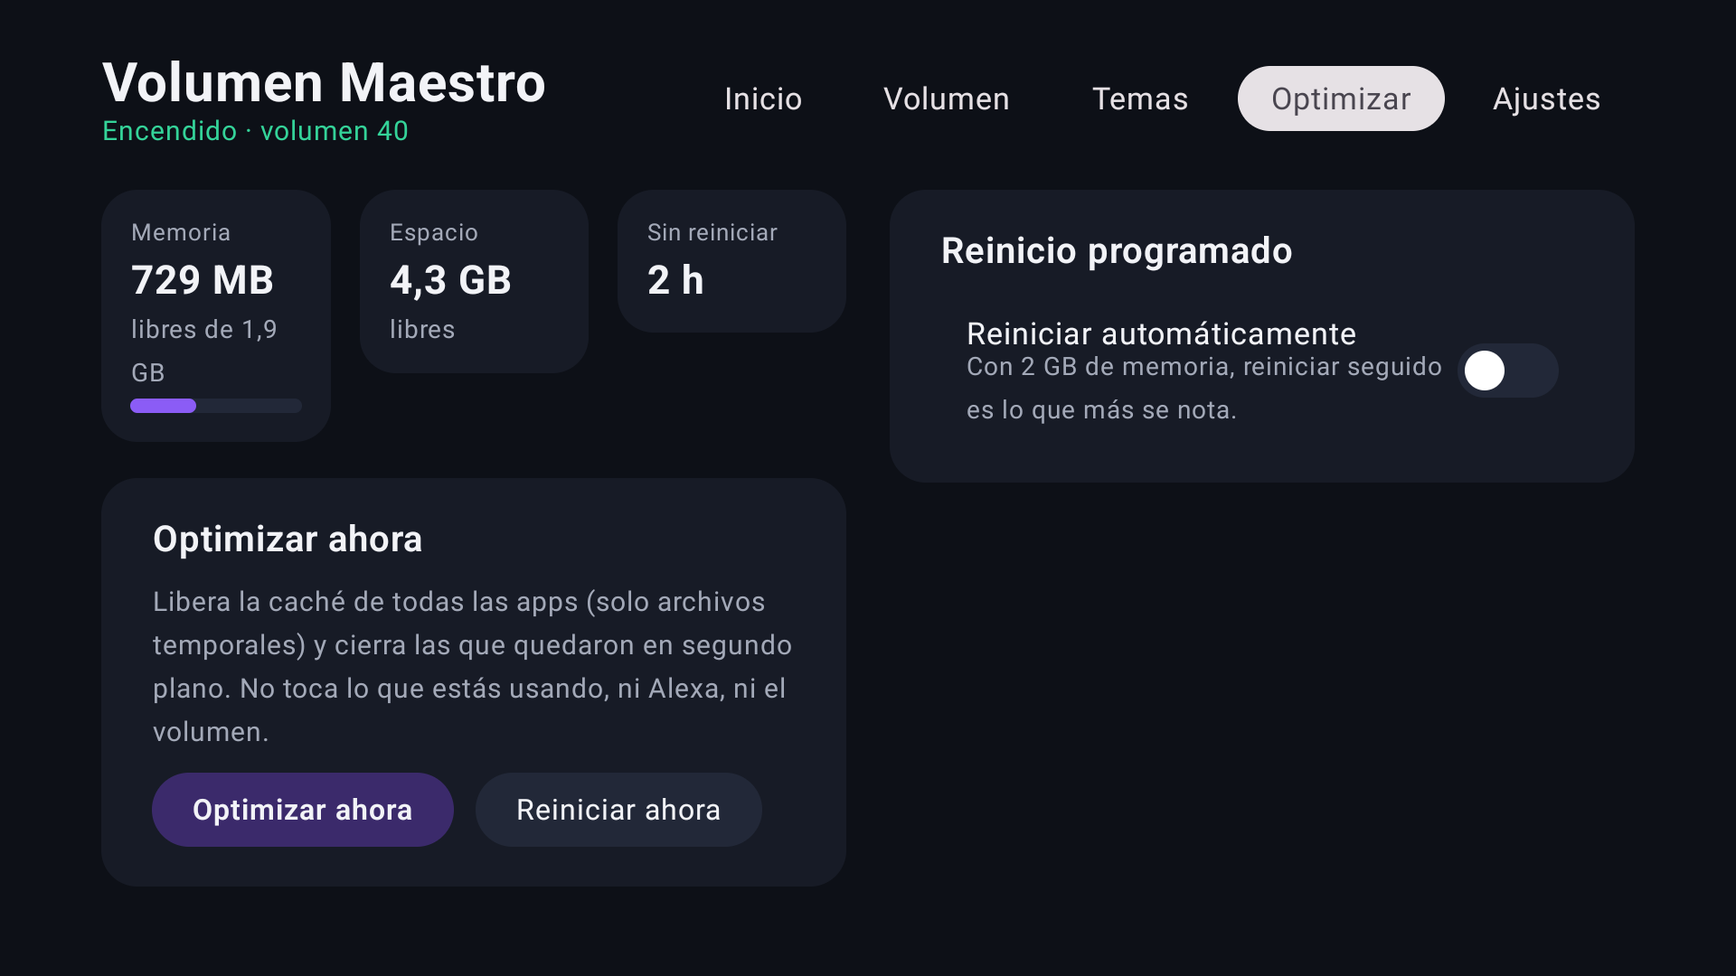
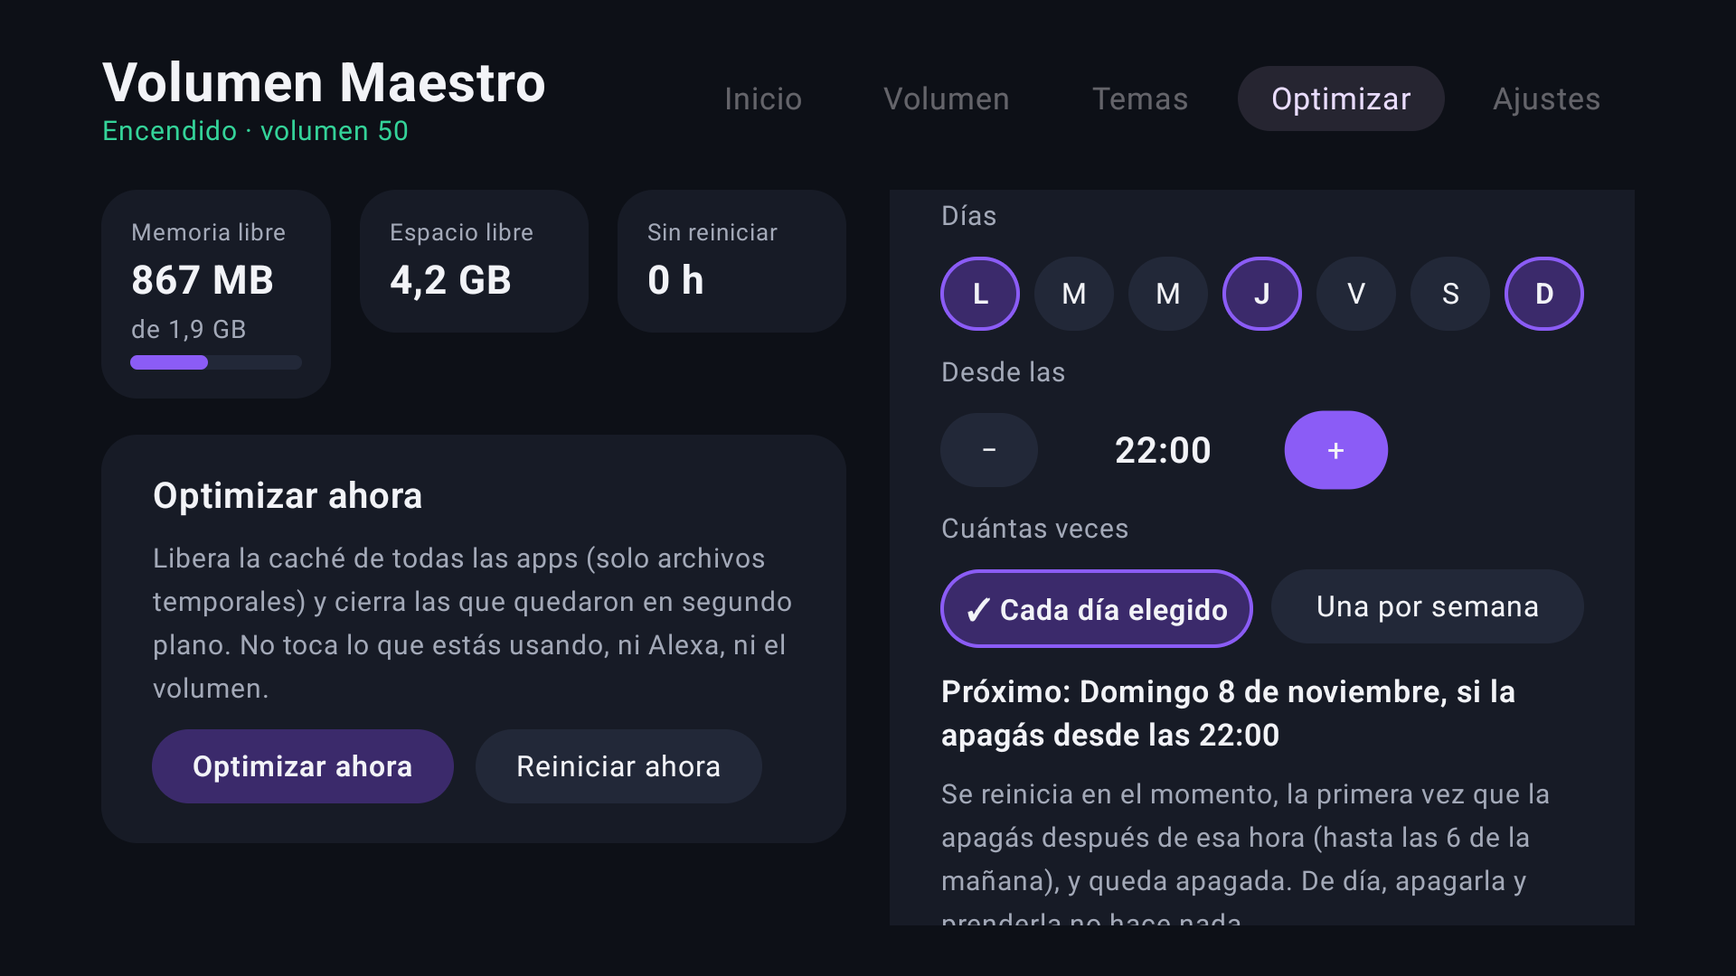
docs: cierre de sesión 2026-11-05 — la tira LED, Doze y Volumen Maestro 2.4

diff --git a/docs/index.html b/docs/index.html
@@ -95,7 +95,7 @@
       <div class="card"><div class="icon">🧠</div><h3>Como un Chromecast</h3><p>El equipo queda fijo en un volumen alto y la TV baja su propia señal, justo antes de la salida.</p></div>
       <div class="card"><div class="icon">⚔</div><h3>15 temas animados</h3><p>Los carteles de la TV quedan tapados por los tuyos: sable láser, neón, medieval, arcade, steampunk, Noche de brujas y más.</p></div>
       <div class="card"><div class="icon">🔀</div><h3>Alt-Tab en la TV</h3><p>El botón TCL Home abre las apps abiertas con vista previa; dos toques vuelven a la anterior.</p></div>
-      <div class="card"><div class="icon">🧹</div><h3>TV más liviana</h3><p>Optimizar con un botón y reinicio programado por días y hora.</p></div>
+      <div class="card"><div class="icon">🧹</div><h3>TV más liviana</h3><p>Optimizar con un botón y reinicio al apagar de noche, en los días que elijas.</p></div>
     </div>
   </div>
 </section>
@@ -134,7 +134,7 @@
       <figure><img src="assets/app-inicio.png" alt="Pestaña Inicio"><figcaption>Inicio: interruptor y estado</figcaption></figure>
       <figure><img src="assets/app-volumen.png" alt="Pestaña Volumen"><figcaption>Volumen: la curva</figcaption></figure>
       <figure><img src="assets/app-temas.png" alt="Pestaña Temas"><figcaption>Temas: elegir y probar</figcaption></figure>
-      <figure><img src="assets/app-optimizar.png" alt="Pestaña Optimizar"><figcaption>Optimizar y reinicio programado</figcaption></figure>
+      <figure><img src="assets/app-optimizar.png" alt="Pestaña Optimizar"><figcaption>Optimizar y reinicio al apagar</figcaption></figure>
     </div>
   </div>
 </section>

diff --git a/docs/SESSION_HANDOFF.md b/docs/SESSION_HANDOFF.md
@@ -2,18 +2,16 @@
 
 > Save game del proyecto. `/cierre` lo SOBREESCRIBE ENTERO en cada sesión — acá nunca se apila historia (eso vive en CHANGELOG). El hook SessionStart lo inyecta en cada chat nuevo: **tope de 5.500 bytes** (unas 70 líneas); si se pasa, el hook lo corta y avisa "CORTADO".
 
-**Cierre**: 2026-11-01 (noche) · **Último commit**: ver `git log -1` (cierre de sesión)
+**Cierre**: 2026-11-05 (tarde) · **Último commit**: ver `git log -1` (cierre de sesión)
 
-## Qué se hizo (sesión del 01/11 a la noche: CleanYourTV)
-- Se investigó **CleanYourTV** (`github.com/Gathin23/cleanyourtv`, el proyecto de moda para limpiar TVs Android). Tiene una lista para este mismo modelo (G09, firmware AS24).
-- Se cruzaron **todas sus listas de TCL** contra lo prendido en la TV: la mayoría de la del G09 ya estaba quitada. **Se quitaron las 5 que faltaban** (TIAS, instalador silencioso de TCL, instalaciones de socios, términos de TCL, actualizador de barras de sonido), con `pm uninstall -k --user 0`, de a una.
-- Verificado después: motor, Alexa, Wi-Fi con internet, Ajustes y el inicio andando, sin errores en el registro. **No se reinició la TV.**
-- Lo demás de sus listas son cosas elegidas por Guido o "nunca tocar". Ideas y datos que sirven, anotados en `docs/ideas-google-tv.md` (línea de CleanYourTV).
-- Guido aclaró: **nada de protectores ni pantallas nuevas en este repo** (eso es Museum Slideshow, con otro dev) y lo que se decidió no apagar no se apaga.
-- Bitácora: `docs/tv-guido-tcl/sesiones/2026-11-01.md` (punto 13).
+## Qué se hizo (sesión del 05/11: la tira LED y el reinicio al apagar)
+- La tira LED del USB titilaba con la TV apagada. Causa medida: en Network Standby el Wi-Fi despierta a la TV con el tráfico de la red. **La TV pasó a Doze**: la tira queda apagada, pero Alexa ya no prende la TV (ADR-015).
+- **Volumen Maestro 2.4 publicada e instalada**: reinicio al apagar de noche en vez de alarma a hora fija (ADR-016, spec COMPLETO). Arreglos en las pestañas Optimizar e Inicio.
+- Se descartó la espera de 1 minuto: TCL duerme la TV a ~1,3 s de apretar el botón. Reinicia en el momento.
+- Bitácora con las pruebas: `docs/tv-guido-tcl/sesiones/2026-11-05.md`.
 
 ## Estado
-- TV: Volumen Maestro 2.3 ENCENDIDA (tema Colina espiral, transición apagada, panel de apps prendido). Protector = Ambient de Google. 32 apps de fábrica quitadas (`apps-quitadas.txt`).
+- TV: Volumen Maestro 2.4 ENCENDIDA (tema Colina espiral). Reposo = Doze. Reinicio al apagar prendido: domingo, lunes y jueves desde las 22:00. La noche del jueves 05/11 quedó marcada por la prueba: el próximo es el domingo 08/11.
 - Red: TV en el Wi-Fi "Yulius" (`192.168.0.219`); la PC a veces queda en "Domotics3" (ver `CLAUDE.md`).
 - Repo limpio, todo subido.
 
@@ -21,7 +19,7 @@
 - Nada a medias.
 
 ## Próximo paso CONCRETO
-La próxima vez que la TV se reinicie (o reiniciarla al empezar la sesión): confirmar que arranca bien sin las 5 apps nuevas (motor con `pidof local.volumenmaestro:motor`, Alexa, Wi-Fi). Después: que Guido pruebe los temas de Noche de brujas en pantalla y mirar si la fila de Prime se fue (ver `docs/TODO.md`).
+El lunes 09/11 o después: confirmar el reinicio al apagar en Doze (primer punto de `docs/TODO.md`), que es lo único sin probar. Después: Guido prueba los temas de Noche de brujas en pantalla.
 
 ## Bloqueos
 - Ninguno.
@@ -29,8 +27,9 @@ La próxima vez que la TV se reinicie (o reiniciarla al empezar la sesión): con
 ## Contexto que no está en otro doc
 - Bajar el volumen maestro por debajo de 0,5 con la app apagada (sin el ecualizador) deja la TV muda y puede tumbar el HAL de audio. Para probar el volumen, bajar por debajo de 0,5 (con el redondeo, 0,94 suena igual que 1,0).
 - El panel de apps solo se abre con el control real (la shell no puede simular TCL Home): pedirle a Guido que lo deje abierto y `screencap`.
-- Navegar menús de la TV desde la PC anduvo bien leyendo el foco con `uiautomator dump`: bajar, leer qué tiene el foco, recién ahí OK.
+- **En Doze, apagar la TV desde la PC la deja inalcanzable hasta que Guido la prenda con el control.** Antes de apagarla, dejar todo como tiene que quedar.
 - Las capturas de la pantalla de inicio muestran la foto de perfil de Guido: borrarlas al terminar.
+- Quedan en la TV `/sdcard/s0.png`–`s3.png` y `th.png`, que no son de esta sesión (¿de Museum Slideshow?). No se tocaron.
 - `am start` de Ajustes no se abre mientras corre el Ambient: primero `input keyevent HOME`.
 - La TV tiene un segundo perfil (usuario 10, "new_user") sin usar; no gasta nada mientras no se abra. No se tocó.
 - Guido: la auto-actualización desde GitHub quedó descartada por ahora; los avisos desde el celu, descartados.

diff --git a/docs/decisiones.md b/docs/decisiones.md
@@ -18,6 +18,8 @@ Cada decisión con alternativas: qué se eligió, qué se descartó y por qué. 
 | 012 | La clave de firma va en el repo público | 31/10/2026 |
 | 013 | Un ecualizador plano en la mezcla se hace cargo del volumen maestro | 01/11/2026 |
 | 014 | El panel de apps abiertas va adentro de Volumen Maestro, en su propio paquete | 01/11/2026 |
+| 015 | Reposo de la TV en Doze: la tira LED del USB queda apagada; Alexa ya no prende la TV | 05/11/2026 |
+| 016 | Reinicio al apagar de noche, en el momento, en vez de alarma a hora fija (reemplaza a la 009) | 05/11/2026 |
 
 ## ADR-001 — Volumen maestro en vez de efectos de audio
 - **Contexto**: la salida óptica es de volumen fijo; hacía falta una capa de volumen por software.
@@ -57,7 +59,7 @@ Cada decisión con alternativas: qué se eligió, qué se descartó y por qué. 
 ## ADR-008 — Actualizar siempre encima
 - **Elegido**: misma clave (`keystore.jks`, alias `vm`), mismo `applicationId` (`local.volumenmaestro`) y el servicio con el mismo nombre de clase que la v1 (`local.volumenmaestro.VolumeService`). Así la app se actualiza sin perder la clave ADB autorizada, los ajustes ni la habilitación del servicio.
 
-## ADR-009 — Reinicio programado
+## ADR-009 — Reinicio programado (reemplazada por la ADR-016)
 - **Elegido**: alarma exacta (`setExactAndAllowWhileIdle`; el permiso se concede con `appops` por ADB). Solo reinicia con la pantalla apagada (espera hasta 3 h). Reinicia con el servicio `reboot:` de adbd (como `adb reboot`) y deja una marca: si al arrancar la pantalla se prendió sola, manda `KEYCODE_SLEEP`.
 - **Requisito**: reposo en Network Standby (en Hibernated la TV no despierta para la alarma).
 
@@ -88,3 +90,16 @@ Cada decisión con alternativas: qué se eligió, qué se descartó y por qué. 
 - **Opciones**: adentro de Volumen Maestro · una app aparte en este repo · un repo aparte.
 - **Elegido**: adentro, en su propio paquete (`local.volumenmaestro.recientes`) y su propio documento, separado del audio. Reusa el lector del control, la shell ADB y el arranque con la TV.
 - **Costo**: la app deja de ser solo de audio. Separarla después pide otra autorización ADB y duplicar el lector del control. Spec: `docs/specs/2026-11-01-panel-apps.md`.
+
+## ADR-015 — Reposo de la TV en Doze
+- **Contexto**: la tira LED que Guido tiene en el USB de la TV prendía y apagaba con la TV apagada. En Network Standby la placa de Wi-Fi despierta a la TV con el tráfico de la red: 36 despertadas en 10 minutos (registro: `TclPowerManagerServiceEx ... type = WOW`), y cada una prende el USB. Las alarmas de las apps no la despiertan (TCL las pasa a "no despertar").
+- **Opciones**: Network Standby (Alexa prende la TV, la tira titila) · Doze (la tira queda apagada; ni Alexa ni un paquete mágico desde la PC la prenden: probado el 05/11) · Hibernated (igual que Doze, sin mantenimiento) · enchufe inteligente para la tira o cable de red (fuera de la TV; el cable no se probó).
+- **Elegido**: Doze, por Guido. Cortar el USB o elegir qué despierta al Wi-Fi no se puede sin root (sysfs y Wi-Fi bloqueados para la shell).
+- **Costo**: Alexa apaga la TV pero no la prende, y el Chromecast tampoco la prende. La alarma del reinicio programado no despertaba a la TV: de ahí la ADR-016.
+
+## ADR-016 — Reinicio al apagar de noche, en el momento
+- **Contexto**: en reposo sin red nada despierta a la TV, así que una alarma a hora fija no sirve. Guido apaga y prende la TV seguido durante el día y quiere sus apps abiertas.
+- **Opciones**: alarma a hora fija · que la app pregunte una vez por semana · reiniciar cada vez que se apaga · reiniciar la primera vez que se apaga de noche, en los días elegidos.
+- **Elegido**: la última. Por defecto domingo, lunes y jueves desde las 22:00; la noche sigue hasta las 06:00. Una vez por noche, o "una por semana" como opción.
+- **Sin espera**: se planeó esperar 1 minuto por si se apagó sin querer, pero no se puede. TCL suelta los wakelocks de las apps y duerme la TV a ~1,3 s de apretar el botón (`aosp release wakelock` + `powerSuspend`, igual con y sin red), así que la espera nunca corría. El reinicio se manda en el momento. Si no llegara, al despertar la pantalla está prendida y no reinicia: la noche queda sin marcar.
+- **Costo**: apagarla sin querer de noche la reinicia (vuelve en ~30 s). La pantalla se prende durante el arranque, hasta que la app la apaga a los ~15 s de arrancar el motor.

diff --git a/docs/tv-guido-tcl/sesiones/2026-11-05.md b/docs/tv-guido-tcl/sesiones/2026-11-05.md
@@ -1,0 +1,17 @@
+# Sesión 05/11/2026 — la tira LED del USB
+
+1. **Arranque**: la TV había arrancado de cero esa mañana (botón del control). Motor, Alexa y Wi-Fi andaban sin las 5 apps de TCL quitadas el 01/11.
+2. **Pedido**: la tira LED enchufada al USB de la TV prendía y apagaba con la TV apagada. Guido quería que el USB quedara cortado.
+3. **Cortar el USB directo**: no se puede. La shell no tiene permiso sobre el USB (sysfs bloqueado) y la tira solo toma corriente.
+4. **Medición en Network Standby** (TV apagada 15:13–15:24): 36 despertadas, todas por la red (`type = WOW`). Cada una duraba 4–10 s, cada 3–42 s, igual que lo que Guido veía en la tira. Las alarmas de las apps la despertaron solo 3 veces (al apagarla).
+5. **Prueba en Doze** (desde las 15:32, cambiado por el menú con `uiautomator`): la tira quedó apagada. Ni un paquete mágico desde la PC (15:35) ni Alexa con la voz prendieron la TV. El único ajuste que cambió: `tcl_sys_network_standby_enabled` de 1 a 0.
+6. **Decisión de Guido**: queda en Doze (ADR-015). Volumen Maestro siguió andando al despertar de Doze sin reiniciarse (mismo proceso del motor).
+7. **Volumen Maestro 2.4, reinicio al apagar** (ADR-016). Primer intento con 1 minuto de espera: no reinició, porque TCL duerme la TV a ~1,3 s de apretar el botón (registro de las 16:48). Se pasó a reiniciar en el momento.
+8. **Pruebas sin Guido**, con reposo con red puesto un rato con `settings put` para no perder ADB:
+   - Apagar antes de la hora: no reinició (18:18, tiempo encendida 9:45 → 9:47).
+   - Apagar de noche: reinició (apagada 18:20:18, de vuelta 18:20:50, dormida otra vez 18:21:08 con `KEYCODE_SLEEP`).
+   - Apagar otra vez esa noche: no reinició (1 → 2 min encendida).
+   - Volumen y cartel sobre el inicio: suben y bajan bien.
+   - **No probado**: el reinicio completo en Doze (esa noche ya quedó marcada por la prueba). Doze y con red tardan lo mismo en dormirse.
+9. **Fila de Prime Video del inicio**: el 05/11 sigue ahí, 4 días después de apagar Prime en "Apps y servicios". Con eso se cierra: no hay más vueltas sin perder "Continue watching".
+10. **Al terminar**: reposo en Doze (`tcl_sys_network_standby_enabled=0`), reinicio domingo, lunes y jueves desde las 22:00, TV en el inicio.

diff --git a/docs/TODO.md b/docs/TODO.md
@@ -2,19 +2,18 @@
 
 > ÚNICA fuente de pendientes del proyecto. Completado → SE BORRA (la historia vive en CHANGELOG y git). Header de 1 línea, sin narrativa de sesión.
 
-2026-11-01 — ver SESSION_HANDOFF.md
+2026-11-05 — ver SESSION_HANDOFF.md
 
 ## 🔴 Crítico
 - (nada)
 
 ## 🟠 Importante
-- [ ] Tras el próximo reinicio de la TV, confirmar que arranca bien sin las 5 apps de TCL quitadas el 01/11 (motor, Alexa, Wi-Fi).
+- [ ] Confirmar el reinicio al apagar en Doze: la prueba completa se hizo con reposo con red (Doze mostró el mismo tiempo antes de dormirse). El lunes 09/11 a la mañana, si Guido apagó la TV el domingo después de las 22:00, "Sin reiniciar" en Optimizar tiene que marcar solo las horas desde esa noche, y Guido cuenta si la pantalla quedó apagada.
 - [ ] Guido: probar los 3 temas de Noche de brujas en pantalla de verdad ("Probar en pantalla"), con silencio incluido; que no se asome el cartel de TCL.
 - [ ] Ideas que quedan de `docs/ideas-google-tv.md` (opcionales): SmartTube desde su GitHub oficial, Wholphin, LocalSend, temporizador para dormir en la app, probar el ajuste de dibujo `skiavk` (dato de CleanYourTV).
-- [ ] Probar un reinicio programado real (ponerlo 2-3 minutos adelante y apagar la TV con el control); confirmar que la pantalla no queda prendida después.
 
 ## 🟡 Cuando se pueda
-- [ ] Mirar en unos días si la fila de Prime Video del inicio se fue (Prime apagado en "Apps y servicios" el 01/11). Si sigue, ya no hay más vueltas sin perder "Continue watching".
+- [ ] Reinicio al apagar: acortar el rato con la pantalla prendida al arrancar (hoy la app la apaga a los ~15 s de arrancar el motor), si a Guido le molesta de noche.
 - [ ] Ajustar la curva por defecto si a Guido le resulta muy brusca o muy suave (hoy: Pareja, 0,5 dB por punto).
 - [ ] Auto-actualización desde los Releases de GitHub: descartada por ahora (cambios esporádicos; la firma está en el repo público). Revisar si se empieza a cambiar seguido.
 - [ ] Revisar el rendimiento de los temas más cargados (Espacial, Medieval, Candelabro) en la TV con `dumpsys gfxinfo local.volumenmaestro:motor`.

diff --git a/CLAUDE.md b/CLAUDE.md
@@ -58,7 +58,7 @@ Los rituales viven en `.claude/skills/`: **`/inicio` · `/cierre` · `/instalar`
 1. **Teclas desde la PC**: `input keyevent` no sirve para probar el volumen ni el atajo. Para simular volumen usar `cmd media_session volume --stream 3 --adj raise|lower`; el atajo solo se prueba con el control real.
 2. **Nunca prender el filtro de teclas de accesibilidad** (`flagRequestFilterKeyEvents`): con él Android deja de repetir las teclas mantenidas y el volumen baja de a un paso. El control se escucha con `getevent` (ADR-011).
 3. **Capturas**: `screencap` sale negro sobre apps con DRM (Netflix) y no muestra lo que hay debajo del protector (Ambient). Para probar carteles, usar la pantalla de inicio o la propia app.
-4. **Navegar la TV con flechas desde la PC es frágil**: verificar con captura antes de apretar OK (ya se apagó la app sin querer una vez). Para elegir opciones en la app sirve `input tap x y`.
+4. **Navegar la TV con flechas desde la PC es frágil**: verificar con captura antes de apretar OK (ya se apagó la app sin querer una vez). `input tap x y` no cambia las pestañas de la app: ahí, flechas. **`uiautomator dump` reconecta el servicio de accesibilidad**: el motor se reinicia y la app dice "Servicio apagado" un momento; no es un bug. Para mirar la app, capturas.
 5. **Netflix toma los ajustes de audio solo al arrancar**: después de cambiar `nrdp_*` hay que `am force-stop com.netflix.ninja`.
 6. **Temas sin estado**: cada `Theme` dibuja todo desde `OverlayState`, sin allocations ni `BlurMaskFilter` (ver `docs/temas.md`). La placa opaca tapa el cartel de TCL desde el primer cuadro.
 7. **Mensajes multi-tema del usuario** (dicta por voz): confirmar el orden de prioridad antes de ejecutar si no dijo "primero X".

diff --git a/README.md b/README.md
@@ -45,7 +45,7 @@ Volumen Maestro devuelve el control: los botones de volumen de la TV pasan a man
 - 🔀 **Botón TCL Home como "Alt-Tab"**: un toque abre las apps abiertas (con vista previa), dos toques vuelven a la app anterior. "Limpiar todo" las cierra.
 - 🩺 **Estado tipo semáforo** con "Reparar todo" por si una actualización de la TV desacomoda algo.
 - 🧹 **Optimizar**: libera caché, cierra apps de fondo, muestra memoria, espacio y tiempo encendida.
-- 🔁 **Reinicio programado** por días y hora (espera si estás mirando la TV y la vuelve a apagar después).
+- 🔁 **Reinicio al apagar**: en los días que elijas, la primera vez que apagás la TV desde cierta hora de la noche se reinicia y queda apagada. De día no hace nada.
 - 🎮 **Atajo del control**: un botón que no usás (por ejemplo Info) prende o apaga la app.
 - 💾 **Copia de seguridad** automática y **desinstalación limpia** (deja la TV como venía).
 
@@ -86,7 +86,7 @@ Abrí **Volumen Maestro** desde "Your apps":
 | **Inicio** | Prender/apagar, ver el estado y "Reparar todo" |
 | **Volumen** | Tipo de curva, dB por punto, volumen 0, transición |
 | **Temas** | Elegir el tema (por grupos), probarlo en pantalla, duración y cartel lateral |
-| **Optimizar** | Optimizar ahora, reiniciar, reinicio programado |
+| **Optimizar** | Optimizar ahora, reiniciar, reinicio al apagar |
 | **Ajustes** | Atajo del control, botón TCL Home, copia de seguridad, registro, desinstalar |
 
 ## Compatibilidad

diff --git a/docs/CHANGELOG.md b/docs/CHANGELOG.md
@@ -2,6 +2,23 @@
 
 > Historia permanente. `/cierre` agrega una entrada AL TOPE en cada sesión. Orden descendente estricto, sin excepciones. Nada de versiones duplicadas en otros docs.
 
+## 2026-11-05 — Volumen Maestro 2.4: reinicio al apagar, y la tira LED en reposo
+
+### Added
+- Reinicio al apagar: en los días elegidos (por defecto domingo, lunes y jueves), la primera vez que se apaga la TV desde la hora elegida (22:00) hasta las 06:00, reinicia en el momento y queda apagada. Opción "Cuántas veces": cada día elegido o una por semana. Spec: `docs/specs/2026-11-05-reinicio-al-apagar.md`, ADR-016.
+
+### Changed
+- En la TV: reposo en **Doze** en vez de Network Standby, para que la tira LED del USB no titile. Alexa ya no prende la TV (ADR-015).
+- El chequeo de reposo de Inicio solo informa: ya no pide Network Standby.
+- La config vieja pasa sola a los días y la hora nuevos (versión 3).
+
+### Fixed
+- Pestaña Optimizar: se cortaban el sábado y el domingo, y los minutos salían aplastados.
+- Inicio: la lista de Estado se recorre con el control, y el dato "Conexión", que se cortaba, se quitó (ya está en esa lista).
+
+### Removed
+- El reinicio a hora fija: la alarma, sus reintentos, `RebootReceiver` y los permisos `SCHEDULE_EXACT_ALARM` y `WAKE_LOCK`.
+
 ## 2026-11-01 — CleanYourTV: comparación y 5 apps de TCL menos
 
 ### Removed

diff --git a/docs/tv-guido-tcl/README.md b/docs/tv-guido-tcl/README.md
@@ -81,6 +81,7 @@ Resultado tras reiniciar: **894 MB de RAM libre**.
 - Causa: en reposo la TV entraba en modo **Hibernated** y cortaba el Wi-Fi, así que la orden de prender no llegaba.
 - Arreglo: Settings → System → Power & Energy → TV Standby → **Standby Mode: Network Standby** (`tcl_sys_network_standby_enabled=1`). Ahora Alexa la prende, la apaga, abre Netflix, etc. (comprobado en los registros: llega un "MagicPacket" y la TV despierta).
 - Efecto secundario: mandar algo por Chromecast prende la TV sola. Gasta ~1-2 W más en reposo.
+- **05/11: se volvió a un reposo sin red (Doze)** porque en Network Standby la TV se despertaba con el tráfico del Wi-Fi y la tira LED del USB prendía y apagaba. Desde entonces Alexa apaga la TV pero no la prende. Detalle y opciones en `../decisiones.md` (ADR-015). Para volver: el mismo menú → **Network Standby**.
 
 ### 5. El problema del volumen (lo que dio origen a Volumen Maestro)
 - El Sony va por fibra óptica y TCL deja la salida óptica a **volumen fijo**: los botones de volumen muestran "Audio output through optical fibers does not support volume adjustment".

diff --git a/docs/arquitectura.md b/docs/arquitectura.md
@@ -41,7 +41,7 @@ flowchart LR
 | Temas | `overlay/Theme.kt`, `overlay/themes/*` | Interfaz `Theme` + registro. Ver `temas.md` |
 | Ajustes | `settings/Config.kt`, `ConfigStore.kt` | `Config` (JSON), guardado en el proceso motor + copia en `/sdcard/VolumenMaestro/ajustes.json` |
 | Optimizar | `system/Optimizer.kt` | Estado (memoria, espacio, tiempo encendida), `pm trim-caches`, `am kill-all` |
-| Reinicio | `system/RebootScheduler.kt`, `RebootReceiver.kt` | Cálculo del próximo reinicio (probado), alarmas, espera si la TV está en uso |
+| Reinicio | `system/RebootScheduler.kt`, `Engine.onScreenOff` | Regla de la noche y próxima noche (probada); al apagar la TV, el motor reinicia en el momento (ADR-016) |
 | Panel de apps | `recientes/*` | Botón TCL Home: panel de apps abiertas y volver a la anterior. Ver `recientes.md` |
 | Puente | `engine/EngineService.kt`, `engine/Protocol.kt` | Messenger: la interfaz pide, el motor responde con un `Bundle` de estado |
 | Interfaz | `ui/*` | Compose for TV: Inicio, Volumen, Temas, Optimizar, Ajustes. `EngineClient` pregunta el estado cada 1 s |

diff --git a/docs/desarrollo.md b/docs/desarrollo.md
@@ -64,4 +64,4 @@ Ojo: `input keyevent` desde la PC **no** pasa por el servicio de accesibilidad: 
 - [ ] Prender la TV con la app apagada → vuelve a ENCENDIDO.
 - [ ] Cada tema: vista previa igual que en pantalla.
 - [ ] Atajo con un botón libre del control.
-- [ ] Reinicio programado de prueba (2 min) con la pantalla apagada.
+- [ ] Reinicio al apagar: con "Desde las" antes de la hora actual y hoy elegido, apagar reinicia y queda apagada; apagar otra vez esa noche, no. La última noche queda guardada: para repetir hay que esperar otro día elegido. En reposo sin red la PC pierde ADB al apagar: para probar solo, `settings put system tcl_sys_network_standby_enabled 1`, y al terminar volver a `0`.
